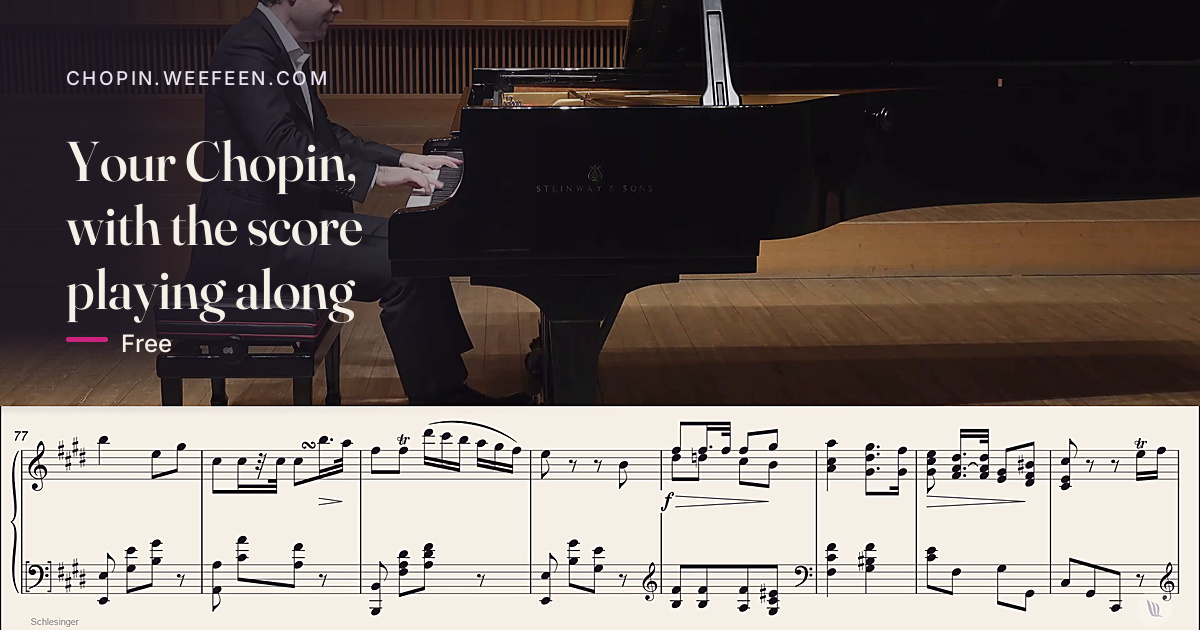
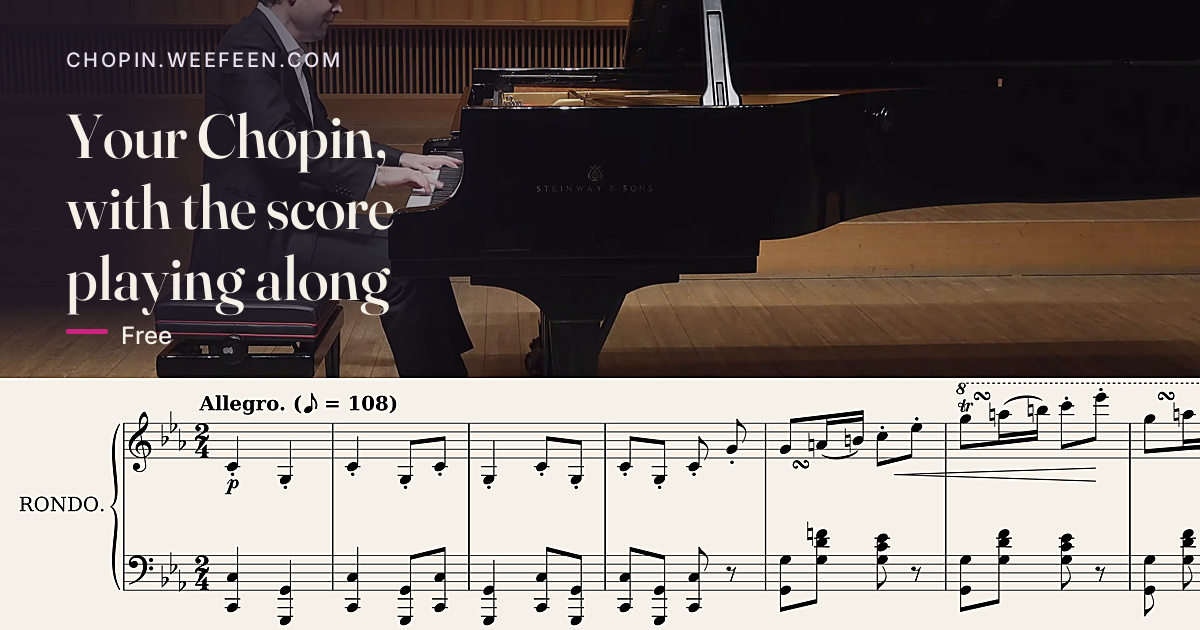
the engraving on the card comes from vector, and is big enough to read
IT WAS SCALE, NOT COMPRESSION. A feed shows this card at about 500
pixels. The band the renderer cuts carries nine bars across the frame,
which at that size is 55 pixels a bar -- staff lines and noteheads
dissolve into grey. No format, quality setting or sharpening reaches
that, which is why four rounds of them changed nothing anybody could see.

Two things fix it, and both are about the card being a CARD rather than a
reused video frame.

The engraving is rasterised from the package's own SVG at 3600 wide and
reduced, instead of being enlarged out of a video frame. Vector rendered
above the target and scaled DOWN lands crisp; a raster scaled UP only
magnifies what the encoder discarded.

And it shows about seven bars instead of nine, at nearly twice the size.
The tempo marking is legible at feed size now, which is a fair test of
whether any of it can be read.

THE WORDS DECIDE THE LAYOUT. Choosing a bar count first fixed the band's
height, and at six bars that height ate the headline -- "playing along"
sheared off, "Free" gone. The text block is what must not be cut, so the
band takes the remaining share and however many bars fit in it.

Two arithmetic faults found by looking rather than reasoning: the band
height formula was inverted, so asking for LESS music made the band
smaller and left the video's own band showing above it -- two staves on
one card. And the scrim still ended at a fixed fraction rather than where
the band now starts.
[…]

Changed region(s): [[0.0, 0.181, 1.0, 1.0], [0.0617, 0.0603, 0.2775, 0.1508], [0.0308, 0.9651, 0.0617, 0.9952]]

diff --git a/app/static/svs/index.html b/app/static/svs/index.html
@@ -26,14 +26,14 @@
 <meta property="og:title" content="Your Chopin, with the score playing along"/>
 <meta property="og:description" content="Upload your performance. We find the piece, line the score up to your playing, and email the video back. Free."/>
 <meta property="og:url" content="https://chopin.weefeen.com/app/"/>
-<meta property="og:image" content="https://chopin.weefeen.com/app/og-cover-1451a082.png"/>
+<meta property="og:image" content="https://chopin.weefeen.com/app/og-cover-420daa12.png"/>
 <meta property="og:image:type" content="image/png"/>
 <meta property="og:image:width" content="1200"/>
 <meta property="og:image:height" content="630"/>
 <meta name="twitter:card" content="summary_large_image"/>
 <meta name="twitter:title" content="Your Chopin, with the score playing along"/>
 <meta name="twitter:description" content="Upload your performance. We find the piece, line the score up to your playing, and email the video back. Free."/>
-<meta name="twitter:image" content="https://chopin.weefeen.com/app/og-cover-1451a082.png"/>
+<meta name="twitter:image" content="https://chopin.weefeen.com/app/og-cover-420daa12.png"/>
 <link rel="preconnect" href="https://fonts.googleapis.com"><link rel="preconnect" href="https://fonts.gstatic.com" crossorigin>
 <link href="https://fonts.googleapis.com/css2?family=Fraunces:ital,opsz,wght@0,9..144,300;0,9..144,400;0,9..144,500;1,9..144,300;1,9..144,400&family=Inter:wght@400;450;500&family=JetBrains+Mono:wght@400&display=swap" rel="stylesheet">
 <style>

diff --git a/tools/make_share_card.py b/tools/make_share_card.py
@@ -47,6 +47,17 @@ PAPER = (246, 241, 232)
 INK = (28, 22, 34)
 MAGENTA = (204, 35, 126)
 
+# How much of the engraved band to show. The renderer cuts roughly nine
+# bars to a frame; a share card is read at a quarter that size, so it
+# shows a third of them at three times the scale.
+# How much of the card the engraving takes. The bars that fit follow from
+# it -- about seven at this share -- rather than the other way round.
+BAND_SHARE = 0.40
+
+# The shape of a band as the engraver cuts it: wide and short, with its ink
+# filling it. Measured on a rasterised band, 3493x605.
+BAND_ASPECT = 5.77
+
 HEADLINE = "Your Chopin,\nwith the score\nplaying along"
 KICKER = "CHOPIN.WEEFEEN.COM"
 NOTE = "Free"
@@ -121,7 +132,8 @@ def _font(size: int, which: str = "display"):
     return ImageFont.truetype(str(local), size)
 
 
-def draw(frame: pathlib.Path, out: pathlib.Path) -> None:
+def draw(frame: pathlib.Path, out: pathlib.Path,
+         band_png: "pathlib.Path | None" = None) -> None:
     from PIL import Image, ImageDraw, ImageFilter
 
     src = Image.open(frame).convert("RGB")
@@ -138,6 +150,47 @@ def draw(frame: pathlib.Path, out: pathlib.Path) -> None:
     if (card.width, card.height) != (WIDTH, height):
         card = card.resize((WIDTH, height), Image.LANCZOS)
 
+    # THE MUSIC IS ENLARGED, because the card is READ AT 500 PIXELS. A feed
+    # shows it at roughly a quarter of its width, and the band the renderer
+    # cuts carries about nine bars across the frame -- which at that size
+    # is 55 pixels a bar, where staff lines and noteheads dissolve into
+    # grey. That is the whole reason this card looked soft beside cards
+    # built from large flat shapes. It is SCALE, not compression, and no
+    # format or quality setting reaches it.
+    #
+    # THE HEIGHT FOLLOWS FROM THE MUSIC, not the other way round. A band is
+    # about 5.8:1 and its ink fills it, so there is no slack to reclaim:
+    # how many bars you want at full width fixes how tall the band must be,
+    # and the photograph takes what is left. Six bars makes an even split.
+    # THE WORDS DECIDE, AND THE MUSIC TAKES THE REST. Choosing a number of
+    # bars instead fixed the band's height, and at six bars that height ate
+    # the headline -- "playing along" sheared off and "Free" gone
+    # altogether. The text block is the thing that must not be cut, so the
+    # band gets the remaining share and however many bars fit in it.
+    band_h = round(height * BAND_SHARE)
+    band_from = height - band_h
+    bars = WIDTH * 9.0 / (band_h * BAND_ASPECT)
+    band = card.crop((0, band_from, card.width, height))
+    band = band.crop((0, 0, max(1, int(band.width * bars / 9.0)),
+                      band.height))
+    band = band.resize((WIDTH, band_h), Image.LANCZOS)
+
+    # FROM VECTOR WHERE THERE IS ONE. The band inside a video frame is a
+    # raster the encoder has already been through, so enlarging it
+    # magnifies what was thrown away. The engraving exists as SVG in every
+    # score package: rasterised well above the target and reduced, it lands
+    # crisp, which is the difference between notation you can read at feed
+    # size and a grey texture.
+    if band_png is not None and band_png.is_file():
+        v = Image.open(band_png)
+        paper = Image.new("RGB", v.size, PAPER)
+        paper.paste(v, (0, 0), v if v.mode == "RGBA" else None)
+        cut = paper.crop((0, 0, max(1, int(v.width * bars / 9.0)),
+                          v.height))
+        band = cut.resize((WIDTH, band_h), Image.LANCZOS)
+
+    card.paste(band, (0, band_from))
+
     # Restore the edge contrast compression flattened. Light on purpose:
     # the detail is not there to recover, and a heavier hand buys halos
     # that look worse than the softness they replace.
@@ -148,7 +201,7 @@ def draw(frame: pathlib.Path, out: pathlib.Path) -> None:
     # the photograph darkened under it -- but a rectangle would read as a
     # sticker laid on top. This is a horizontal ramp: opaque at the left
     # edge where the words are, gone by the middle where the piano is.
-    band_top = int(height * 0.66)
+    band_top = band_from
     scrim = Image.new("L", (WIDTH, band_top), 0)
     ramp = ImageDraw.Draw(scrim)
     for x in range(WIDTH):
@@ -173,18 +226,18 @@ def draw(frame: pathlib.Path, out: pathlib.Path) -> None:
     left = int(WIDTH * 0.055)
 
     # The kicker, letter-spaced by hand because PIL has no tracking.
-    small = _font(round(WIDTH * 0.0155), "body")
+    small = _font(round(WIDTH * 0.017), "body")
     x = left
     for ch in KICKER:
-        pen.text((x, int(height * 0.105)), ch, font=small,
+        pen.text((x, int(height * 0.075)), ch, font=small,
                  fill=(233, 226, 240))
         x += pen.textlength(ch, font=small) + WIDTH * 0.002
 
-    big = _font(round(WIDTH * 0.0465), "display")
-    y = int(height * 0.20)
+    big = _font(round(WIDTH * 0.052), "display")
+    y = int(height * 0.155)
     for line in HEADLINE.split("\n"):
         pen.text((left, y), line, font=big, fill=PAPER)
-        y += round(WIDTH * 0.053)
+        y += round(WIDTH * 0.059)
 
     # The one piece of colour, and the word that matters most.
     rule_y = y + round(WIDTH * 0.0155)
@@ -212,6 +265,10 @@ def main() -> int:
     ap = argparse.ArgumentParser(description=__doc__.splitlines()[0])
     ap.add_argument("video", help="a rendered score-video to take the frame from")
     ap.add_argument("--out", default="app/static/svs/og-cover.png")
+    ap.add_argument("--band", help="a rasterised band SVG; the engraving is "
+                                   "taken from this rather than from the "
+                                   "video frame, which is the difference "
+                                   "between readable notation and a texture")
     ap.add_argument("--seconds", type=int, default=240,
                     help="how far into the video to look for a frame")
     args = ap.parse_args()
@@ -230,7 +287,8 @@ def main() -> int:
         best, score = sharpest(frames)
         print(f"  {len(frames)} keyframes, sharpest scores {score:.0f}")
         out = pathlib.Path(args.out)
-        draw(pathlib.Path(best), out)
+        draw(pathlib.Path(best), out,
+             pathlib.Path(args.band) if args.band else None)
         size = out.stat().st_size
         print(f"  wrote {out} ({size / 1000:.0f} KB)")
         print("  now bump the version in index.html: the url carries the "
